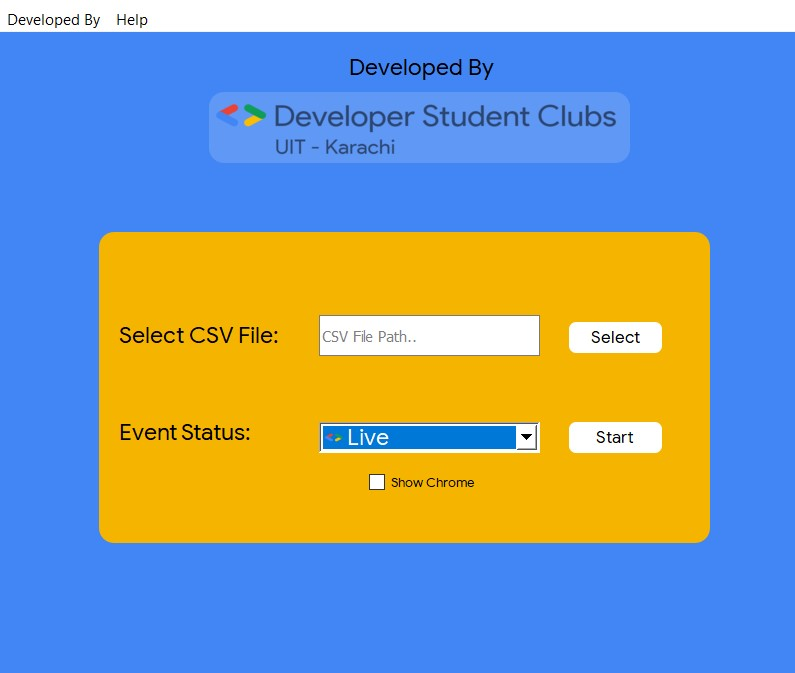
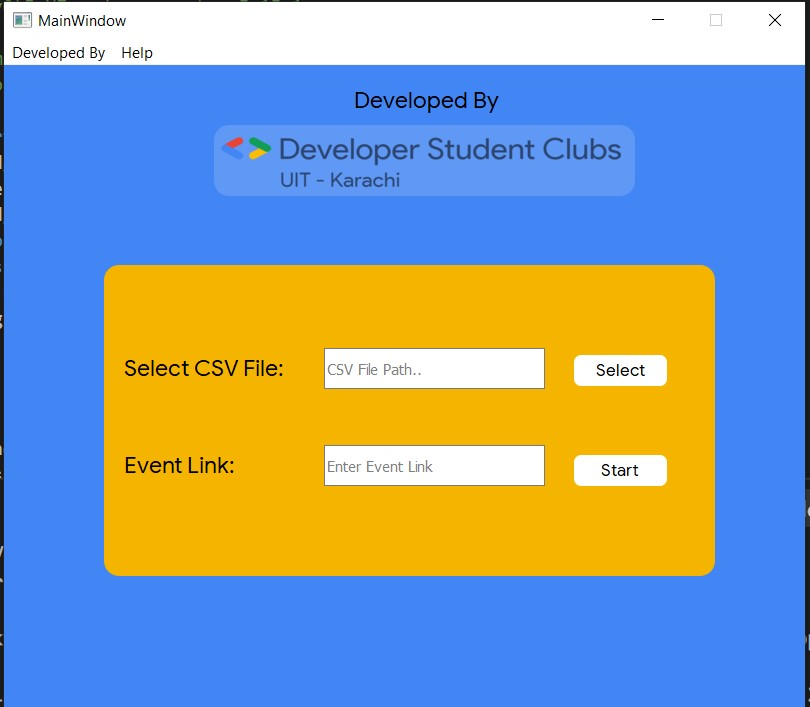
version3 completed

diff --git a/py_files/main_window.py b/py_files/main_window.py
@@ -229,7 +229,7 @@ class Ui_MainWindow(object):
         else:
             
             event_sel = self.lineEdit_2.text()
-            print(event_sel,"hellllpopppppooo")
+         
 
         info = (open("py_files/secret_info.txt","r").read()).split(' ')
         email =info[0]
@@ -257,8 +257,8 @@ class Ui_MainWindow(object):
             lower_limit = 0
             upper_limit= 70
             count = 1
-            print(len(data))
-            if len(data) < 400:
+        
+            if len(data) < 250:
 
                 
                 
@@ -267,36 +267,18 @@ class Ui_MainWindow(object):
                     obj = dsc_bot()
                     obj.login(uni_link,email,pas)
                     obj.start(f_name,l_name,eemail,event_sel,uni_link)
-                lstt = []
-                while True:
-                    
-                    f_name = data['first name'][lower_limit:upper_limit]
-                    l_name = data['last name'][lower_limit:upper_limit]
-                    eemail = data['email'][lower_limit:upper_limit]
-                    
-                    print(f_name,l_name,eemail)
-                    lower_limit = upper_limit
-                    upper_limit+=70
-                    
-                    if len(f_name) ==0:
-                        break
-                    else:
-                        import threading
-                        import time
-                        t1 = threading.Thread(target = run_bot,args = [f_name,l_name,eemail,event_sel,uni_link,email,pas])
-                        t1.start()
-                        lstt.append(t1)
-                for thread in lstt:
-                    thread.join()
 
+                f_name = data['first name'][lower_limit:upper_limit]
+                l_name = data['last name'][lower_limit:upper_limit]
+                eemail = data['email'][lower_limit:upper_limit]
 
-
-                        #run_bot(f_name,l_name,eemail,event_sel,uni_link,email,pas)
+                run_bot(f_name,l_name,eemail,event_sel,uni_link,email,pas)
+    
 
                     
 
             else:
-                self.message("Make sure your data length is less than 400!")
+                self.message("Make sure your data length is less than 250!")
 
         except Exception as e:
             print(e,"report this error to GitHub repo")

diff --git a/py_files/script.py b/py_files/script.py
@@ -27,12 +27,7 @@ class dsc_bot:
 		#bot.implicitly_wait(4)
 		login_btn = bot.find_element_by_xpath("/html/body/header/div[1]/div/div[2]/ul/li[5]/a")
 		login_btn.click()
-		'''try:
-			login_btn = bot.find_element_by_xpath("/html/body/header/div[1]/div/div[2]/ul/li[5]/a")
-			login_btn.click()
-		except:
-			pass
-		time.sleep(2)'''
+
 
 		email_in = bot.find_element_by_xpath("/html/body/div[1]/div[1]/div[2]/div/div[2]/div/div/div[2]/div/div[1]/div/form/span/section/div/div/div[1]/div/div[1]/div/div[1]/input")
 		email_in.send_keys(email)
@@ -60,27 +55,14 @@ class dsc_bot:
 		bot.get('https://www.google.com/')
 		#bot.implicitly_wait(4)
 		time.sleep(4)
-		#bot.get('https://dsc.community.dev/accounts/dashboard/#/chapter-194/event-8554/manage')
-		#bot.get('https://dsc.community.dev/accounts/dashboard/')
-		#time.sleep(5)
-		#dash_btn = bot.find_element_by_xpath("/html/body/nav/div/div[2]/ul /li[6]/a")
-		#dash_btn.click()
-		#time.sleep(30)
-		#bot.get('https://dsc.community.dev/accounts/dashboard/#/chapter-194/event-8554/manage')
-		#bot.get('https://dsc.community.dev/accounts/dashboard/')
-		#time.sleep(10)
-		#bot.implicitly_wait(5)
+
 		
 		bot.get(event_sel)
 		time.sleep(25)
 		bot.get(event_sel)
 		time.sleep(10)
 
-		#bot.implicitly_wait(10)
-		print('running')
-		#bot.get(event_sel)
-		#bot.get(event_sel)
-		#time.sleep(7)
+
 		try:
 			
 			count = 1
@@ -88,8 +70,7 @@ class dsc_bot:
 
 			
 			for f_name,l_name,eemail in zip(f_name,l_name,eemail):
-				#print(name)
-				print(f_name,"fname")
+
 
 				
 				add_btn = bot.find_element_by_xpath("/html/body/div[1]/div/div/div/div[3]/div/div/div/div/div/div[2]/div/div/div[2]/div/div[1]/div/div/a")

diff --git a/py_files/login.py b/py_files/login.py
@@ -211,7 +211,7 @@ class Ui_MainWindow(object):
         webbrowser.open("https://github.com/DSC-UIT-khi/Get-DSC-Platform-Extension")
 
     def get_software(self):
-        webbrowser.open("https://drive.google.com/drive/folders/1A4LPBtP_gRaumanvV5p_oIDUvbsTDw0i?usp=sharing")
+        webbrowser.open("https://github.com/DSC-UIT-khi/Google-DSC-Platform-Extension")
 
     def Login(self):
         self.email = self.lineEdit.text()

diff --git a/py_files/warnings_window.py b/py_files/warnings_window.py
@@ -150,7 +150,7 @@ class Ui_MainWindow(object):
         
         webbrowser.open("https://www.youtube.com/watch?v=o_ywzBnUCyU&t=4s")
     def get_software(self):
-        webbrowser.open("https://drive.google.com/drive/folders/1A4LPBtP_gRaumanvV5p_oIDUvbsTDw0i?usp=sharing")
+        webbrowser.open("https://github.com/DSC-UIT-khi/Google-DSC-Platform-Extension")
 import pics_rc
 
 
